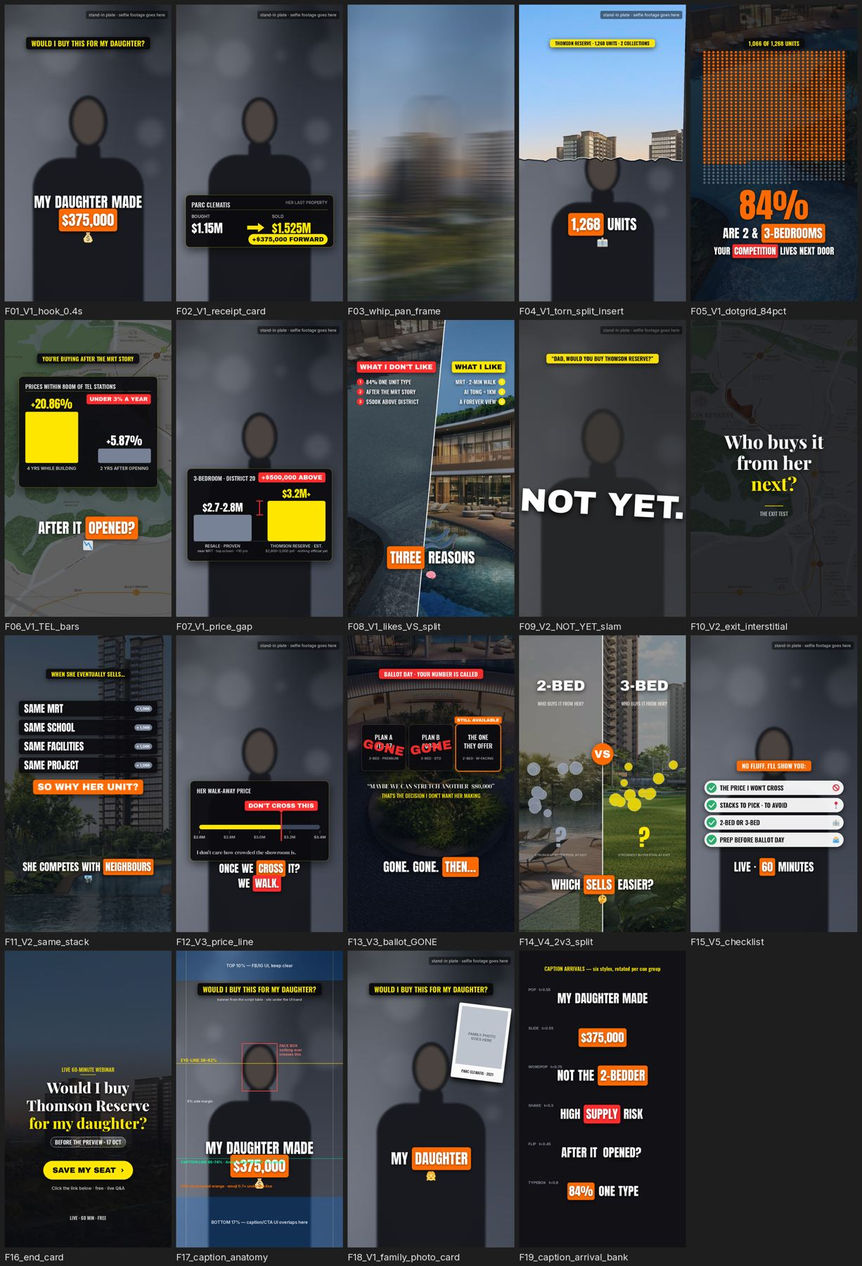
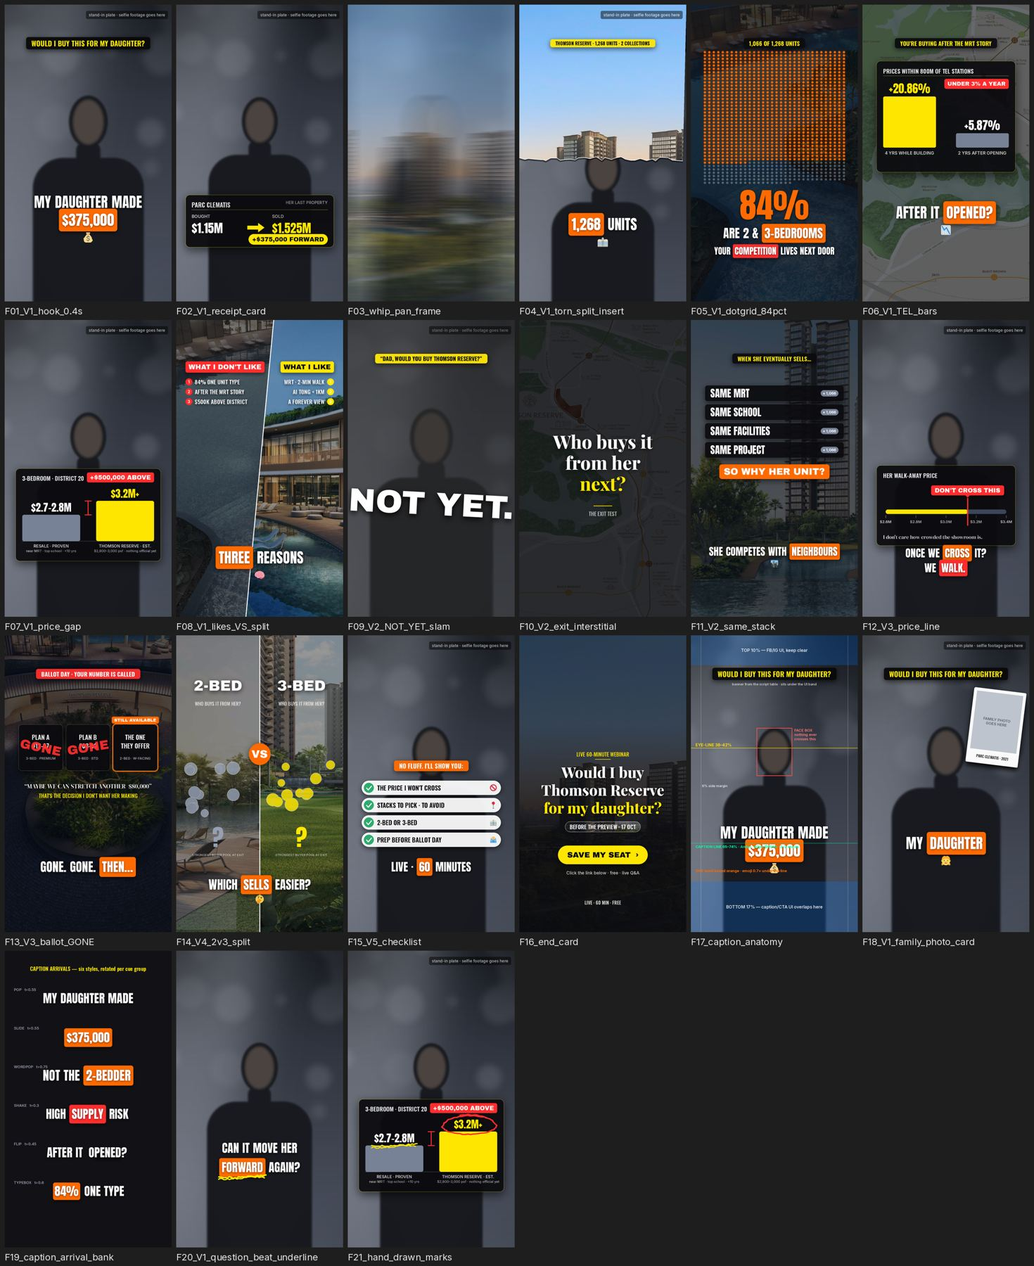
Thomson Reserve V1 selected: human-edit pass, hand-timed 14s hook, hand-drawn marks
Edmund: 'make sure this is a Meta ad editing style and not a rigid AI video -
it must be edited like a human.' Regularity is the tell, so:
- EDB v1.2: section 2b (nine human-edit rules + composer requirements:
  seeded jitter, breaths, device budget, handheld, --human-pass report),
  section 4.0 the shape of V1 with breaths and devices removed for budget
- styleframes.py: A11 = Daughter Hook 1 cut shot by shot (1.1/1.2/4.6 hold/
  1.55/1.1/1.6/2.6/0.4), handheld micro-shake, hand-drawn underline/circle
  devices, frames F20/F21
- Motion Library 6b; register marks V1 selected

Claude-Session: https://claude.ai/code/session_01QGmnhu7UTf4PAFaMEJMMnN

diff --git a/03_ACTIVE_CAMPAIGNS/01_ACTIVE/2026-08-Thomson Reserve/02_AD_EDIT_DIRECTION/styleframes/styleframes.py b/03_ACTIVE_CAMPAIGNS/01_ACTIVE/2026-08-Thomson Reserve/02_AD_EDIT_DIRECTION/styleframes/styleframes.py
@@ -792,7 +792,8 @@ def ffmpeg_bin():
         import imageio_ffmpeg; FFMPEG = imageio_ffmpeg.get_ffmpeg_exe()
     return FFMPEG
 
-def render_clip(name, fn, secs=3.0, fps=30, scale=0.5):
+def render_clip(name, fn, secs=None, fps=30, scale=0.5):
+    secs = secs or getattr(fn, "secs", 3.0)
     """fn(t01, frame_idx) -> PIL RGB 1080x1920. Writes an mp4 (h264) at scale."""
     d = OUT / "anim" / name; d.mkdir(parents=True, exist_ok=True)
     for f in d.glob("*.jpg"): f.unlink()
@@ -1004,6 +1005,128 @@ def A10(t, i):  # photo card drop-in on "my daughter"
 
 CLIPS["A9_caption_arrivals"] = A9
 CLIPS["A10_family_photo_drop"] = A10
+
+
+# ---------------------------------------------------------------- v1.2: human-edit rhythm preview + hand-drawn marks
+_PLATE = None
+def plate_z(z=1.0, dx=0, dy=0):
+    """Cached plate, re-framed per frame (fast enough for a 14s preview)."""
+    global _PLATE
+    if _PLATE is None:
+        _PLATE = plate(1, zoom=1.0)
+    return zoom_img(_PLATE, z, dx, dy)
+
+def handheld(t, amp=2.0, seed=0.0):
+    """1-2 px micro-shake at 2-4 Hz, two incommensurate sines so it never loops visibly."""
+    return (int(round(amp * (math.sin(2 * math.pi * 2.3 * t + seed) + 0.5 * math.sin(2 * math.pi * 3.7 * t + 1.3 + seed)))),
+            int(round(amp * (math.cos(2 * math.pi * 1.9 * t + 0.7 + seed) + 0.5 * math.sin(2 * math.pi * 4.1 * t + seed)))))
+
+def scribble_underline(layer, x0, x1, y, t=1.0, color=GOLD, width=10, seed=5):
+    """Hand-drawn underline: two slightly different strokes, drawn left->right over t."""
+    rnd = random.Random(seed)
+    d = ImageDraw.Draw(layer)
+    for k, (dy, w) in enumerate(((0, width), (10, int(width * 0.8)))):
+        pts = []
+        n = 26
+        for i in range(n + 1):
+            f = i / n
+            x = x0 + (x1 - x0) * f
+            yy = y + dy + rnd.uniform(-5, 5) + 6 * math.sin(f * math.pi * 1.5 + k)
+            pts.append((x, yy))
+        m = max(2, int(len(pts) * min(1, max(0, t * 1.15 - 0.15 * k))))
+        d.line(pts[:m], fill=color + (255,), width=w, joint="curve")
+
+def hand_circle(layer, box, t=1.0, color=RED, width=9, seed=9):
+    """Rough circle around a region: 1.15 turns, wobbly radius, drawn progressively."""
+    rnd = random.Random(seed)
+    x0, y0, x1, y1 = box
+    cx, cy = (x0 + x1) / 2, (y0 + y1) / 2
+    rx, ry = (x1 - x0) / 2 + 26, (y1 - y0) / 2 + 22
+    pts = []
+    n = 70
+    for i in range(n + 1):
+        a = -math.pi * 0.6 + i / n * math.pi * 2.3
+        wob = 1 + rnd.uniform(-0.035, 0.035) + 0.03 * math.sin(a * 3)
+        pts.append((cx + rx * wob * math.cos(a) + (i / n) * 14, cy + ry * wob * math.sin(a) + (i / n) * 8))
+    m = max(2, int(len(pts) * min(1, max(0, t))))
+    ImageDraw.Draw(layer).line(pts[:m], fill=color + (255,), width=width, joint="curve")
+
+def cue(layer, t_now, t0, style, words, ai, emo=None, dur=0.27, **kw):
+    if t_now >= t0:
+        caption_anim(layer, words, ai, style, min(1, (t_now - t0) / dur), emo=emo, **kw)
+
+def A11(t, i):
+    """V1 hook as a HUMAN would cut it - 14.3s, varied shot lengths, breaths, a
+    long hold on the proof card, one whip, one punch, hand-drawn underline.
+    Captions time to Daughter Hook 1 at ~2.6 words/s."""
+    T = t * 14.3
+    hx, hy = handheld(T)
+    layer = new_layer()
+    # --- picture
+    if T < 1.10:                                   # S1 raw open, flash in
+        base = plate_z(1.00, hx, hy); base = flash(base, max(0, 0.6 - T * 6))
+    elif T < 2.30:                                 # S2 jump cut, tighter
+        base = plate_z(1.10, hx, hy)
+    elif T < 6.90:                                 # S3 back out, long hold under the receipt card
+        base = plate_z(1.00 + 0.04 * (T - 2.30) / 4.6, hx, hy)
+    elif T < 7.05:                                 # whip out to the aerial
+        k = (T - 6.90) / 0.15
+        base = whip_blur(Image.blend(plate_z(1.04), broll("deck_p06", cx=2250), k), int(60 + 120 * (1 - abs(k - 0.5) * 2)))
+    elif T < 8.60:                                 # S5 aerial, slow push
+        base = broll("deck_p06", cx=2250, zoom=1.0 + 0.06 * (T - 7.05) / 1.55)
+    elif T < 9.70:                                 # S6 punch in on the face
+        k = min(1, (T - 8.60) / 0.27)
+        base = plate_z(1.08 + 0.12 * ease_out(k, 4), hx, hy)
+    elif T < 11.30:                                # S7 settle
+        base = plate_z(1.10, hx, hy)
+    elif T < 13.90:                                # S8 the question - hold, breathe
+        base = plate_z(1.00 + 0.03 * (T - 11.30) / 2.6, hx, hy)
+    else:                                          # whip-out to white = detachable hook end
+        k = (T - 13.90) / 0.40
+        base = flash(whip_blur(plate_z(1.03), int(40 + 160 * k)), k)
+    # --- banner (hook only, leaves at the whip)
+    if 0.20 <= T < 6.90:
+        eyebrow(layer, "WOULD I BUY THIS FOR MY DAUGHTER?", slide=ease_out(min(1, (T - 0.20) / 0.30)))
+    # --- devices
+    if 1.50 <= T < 6.90:
+        dev_photo_card(layer, min(1, (T - 1.50) / 0.40))
+    if 3.60 <= T < 6.90:
+        dev_receipt(layer, min(1, (T - 3.60) / 2.9))
+    # --- captions (none while the receipt card owns the frame)
+    if T < 1.10:   cue(layer, T, 0.15, "wordpop", ["MY", "DAUGHTER"], 1, emo="1f467")
+    elif T < 2.30: cue(layer, T, 1.12, "pop", ["ALREADY", "BENEFITED"], 1)
+    elif T < 3.60: cue(layer, T, 2.32, "slide", ["FROM", "PARC", "CLEMATIS"], 2)
+    elif T < 6.90: pass
+    elif T < 8.60: cue(layer, T, 7.08, "pop", ["NOW", "IF", "THOMSON", "RESERVE"], 3, size=80)
+    elif T < 9.70: cue(layer, T, 8.62, "wordpop", ["IS", "HER", "NEXT", "PROPERTY"], 3, emo="1f3e0", size=80)
+    elif T < 11.30: cue(layer, T, 9.75, "slide", ["I'M", "ASKING", "ONE", "THING"], 3, size=80)
+    elif T < 13.60:
+        cue(layer, T, 11.40, "typebox", ["CAN", "IT", "MOVE", "HER"], None, size=76, y_frac=0.665)
+        cue(layer, T, 12.25, "wordpop", ["FORWARD", "AGAIN?"], 0, size=76, y_frac=0.73)
+        if T >= 12.70:
+            f = ANTON(76); tw = text_w(f, "FORWARD") + int(76 * 0.44)
+            x0 = (W - (tw + text_w(f, "AGAIN?") + int(76 * 0.28))) // 2
+            scribble_underline(layer, x0 - 6, x0 + tw + 6, int(H * 0.73) + 60, min(1, (T - 12.70) / 0.35), color=GOLD)
+    # 13.60-13.90: face alone, no caption - the breath before the whip
+    return compose(base, layer)
+
+def F20():  # the question beat with the hand-drawn underline, at T=13.2
+    return A11(13.2 / 14.3, 0)
+
+def F21():  # hand-drawn marks bank over the price-gap card: circle + underline
+    base = plate_z(1.0)
+    layer = new_layer(); stand_in_tag(layer)
+    dev_pricegap(layer, 1.0, y_top=0.50)
+    # circle the TR number, underline the proven one
+    x0, x1 = 70, W - 70; y0 = int(H * 0.50); lx = x0 + 44; rx = x1 - 44; pw = int((rx - lx) * 0.44); ly1 = y0 + 470
+    hand_circle(layer, (rx - pw // 2 - 150, ly1 - 260 - 86, rx - pw // 2 + 150, ly1 - 260 - 6), 1.0, color=RED)
+    scribble_underline(layer, lx + pw // 2 - 150, lx + pw // 2 + 150, ly1 - 170 - 2, 1.0, color=GOLD, width=8)
+    return compose(base, layer)
+
+FRAMES["F20_V1_question_beat_underline"] = F20
+FRAMES["F21_hand_drawn_marks"] = F21
+A11.secs = 14.3
+CLIPS["A11_V1_hook_human_cut_14s"] = A11
 
 if __name__ == "__main__":
     which = sys.argv[1:] or ["frames"]

diff --git a/03_ACTIVE_CAMPAIGNS/01_ACTIVE/2026-08-Thomson Reserve/02_AD_EDIT_DIRECTION/EDB_TR-Daughter_Spinoff_v1.md b/03_ACTIVE_CAMPAIGNS/01_ACTIVE/2026-08-Thomson Reserve/02_AD_EDIT_DIRECTION/EDB_TR-Daughter_Spinoff_v1.md
@@ -1,11 +1,11 @@
 # EDB — Thomson Reserve × "Would I buy it for my daughter?" (NL03-B)
-Version: v1.1 · Status: DRAFT FOR APPROVAL · Date: 2026-10-04 (v1.1 same day: Edmund's four rulings applied — bold palette, Body 3 parked, no logo + royalty-free bed, animated captions; family photos and project footage added as inputs)
+Version: v1.2 · Status: **V1 SELECTED FOR RENDER** (Edmund, 2026-10-04) · Date: 2026-10-04 (v1.2: human-edit pass §2b, V1 shape §4.0, composer requirements; v1.1 same day: Edmund's four rulings applied — bold palette, Body 3 parked, no logo + royalty-free bed, animated captions; family photos and project footage added as inputs)
 Engine: Client Advisory · Campaign: Thomson Reserve webinar (preview 17 Oct) · Narrator: Daughter (NL03 variant B)
 Master: 9:16 1080×1920 · crops 4:5 and 1:1 · plus a 15s trim per shipped ad
 Source: selfie phone takes (Drive folder `1Oh1K2aw8K9mMtJDN1BQkKp3VZeSdhlLb`), script doc "Daughter New Spinoff Ads"
 Governs: `REI_Ad_Reel_Edit_Style_Bible_v1.0.md` (§4 motion locks, §7 QC) as reconciled with `E:\REMOTION\ADS_PLAYBOOK.md` (the measured norms) — where they disagree the Playbook wins, see §2.
 Companion: `00_PRODUCTION_FOUNDATIONS/REI_Ad_Motion_Library_v1.0.md` (the transition/effect vocabulary used below)
-Styleframes: `styleframes/` — 19 stills F01–F19 and 10 motion previews A1–A10, rendered 2026-10-04 and inspected frame by frame before this brief was written. Numbers in brackets like **[F05]** point at them.
+Styleframes: `styleframes/` — 21 stills F01–F21 and 11 motion previews A1–A11 (A11 is the 14s human-cut hook), rendered 2026-10-04 and inspected frame by frame before this brief was written. Numbers in brackets like **[F05]** point at them.
 
 ---
 
@@ -51,6 +51,22 @@ Styleframes: `styleframes/` — 19 stills F01–F19 and 10 motion previews A1–
 9. **Hook detachability**: every hook ends on a whip-out so any body can pick up from it.
 10. **End card** 3s, counted in duration, three styles rotate (§5.7).
 
+## 2b. The human-edit pass — "a Meta ad, edited like a human, not a rigid AI video" (Edmund, 2026-10-04)
+
+The machine tells are not the effects; they are the *regularity*. A person cutting this ad would never hit a 1.1s shot forty times in a row, never put a graphic on every line, and would hold on the face when the line is personal. These rules sit on top of §2 and win over any rate target.
+
+1. **Shape, not rate.** The ad has a density curve: hook fast and raw → proof as one long hold → three doubts at rising density (1 → 2 → 3 devices) → likes slower and warmer with longer renders → CTA on the face with nothing but the checklist → card. 40–55 cuts/min is the *average* of that curve, never its rhythm.
+2. **Shot-length jitter.** No two consecutive shots within ±15% of each other. Hook 0.7–1.6s, body 0.9–2.4s, renders 1.5–3s, device holds 2.5–3.5s. Cuts land on a breath or a consonant, never on a grid.
+3. **Breaths.** At least one per 20s: the face alone, caption off, 0.3–0.6s, right before a pivot. The bed drops out for the silence before a slam. V1 has four (§4.0).
+4. **Device budget.** Max one copy-carrying device per 6s of body; max two inserts per doubt; some lines play on the face with a caption and nothing else. If a device does not change what the viewer *understands*, it is cut.
+5. **Meta-native imperfection, not broadcast polish.** Handheld micro-shake on every selfie shot; hand-drawn underline / circle / arrow instead of a second graphic **[F20, F21]**; a family photo flicked in; a "tap-tap" double punch once; a kept laugh or look-away; captions that occasionally arrive a frame late, like someone typed them. No lens flares, no light leaks, no typewriter.
+6. **Cut on the audio.** J-cuts into inserts (hear the next line first), L-cuts out of device holds. Sound leads picture.
+7. **The zoom ladder is a guide.** Break it once per 20s (two 1.00 shots in a row after a punch) so the scale pattern never becomes visible.
+8. **One moment of nothing.** The longest speaker hold in the ad sits on the most personal line ("can it move her forward again?"), caption static, nothing animating but him **[A11, 11.3–13.9s]**.
+9. **Review loop.** Render → watch once at 1× on a phone → write five edits in plain words ("card comes in too early", "too many cuts at 0:41", "let him finish the sentence") → apply → re-render. No ad ships from a first render. The desktop `--human-pass` report (below) makes the regularity visible so the five edits are easy to find.
+
+**Composer requirements** (so `render_ad_v4` *cannot* produce a metronome): per-variation seed (`seed=`) so results are reproducible; `jitter` on every shot boundary (±0.12s, snapped to the nearest word gap); `breath` beats (`dev="breath"`, caption off, 0.3–0.6s); `device_budget` per block; `handheld` move on speaker shots; `no_device_zones` around the personal lines; `ladder_break` every ~20s; and a `--human-pass` report printing the shot-length histogram, cuts/min per 10s window, and every pair of consecutive shots that violate rule 2. Reference timings: `styleframes.py::A11` (14.3s, every shot hand-timed).
+
 ## 3. The six treatments — pick per take
 
 | # | Take | Treatment name | One-line idea | Transition family | Devices (new ones in **bold**) | Length |
@@ -68,7 +84,22 @@ Treatments are take-agnostic within reason: V2's grammar works on Hooks 3, 6, 9,
 
 Anchors are **spoken phrases**, not clock times; the composer resolves them on the tightened transcript (`find_phrase`). `lead` is seconds before the anchor word. Caption column shows the cue with the boxed word in [brackets]; "—" means a copy-carrying device owns the frame.
 
-### 4.1 Hook (Daughter Hook 1) — target 9–11s after tightening
+### 4.0 The shape of V1 (read before the tables)
+
+| Section | Spoken | Density | What a person would do |
+|---|---|---|---|
+| Hook 0–14s | Daughter Hook 1 | 8 shots, 1 device hold | raw open, photo flicked in, one long receipt hold, one whip, one punch, the question on his face. Timed shot-by-shot in **A11**: 1.1 · 1.2 · 4.6 (hold) · 1.55 · 1.1 · 1.6 · 2.6 · 0.4 whip |
+| Preview + 3 things 14–24s | B1–B4 | light | face, two captions per line, chips drop in, **breath** before "What I don't like" |
+| Doubt 1 24–38s | B5–B10 | 1 device (dot grid) + 2 inserts | B8 and B9 play on the face only — drop their inserts |
+| Doubt 2 38–55s | B11–B16 | 1 device (bars) + map | the map is the only picture for 9s; let it be |
+| Doubt 3 55–70s | B17–B22 | 1 device (price gap) | **breath** on "Third. The price." before the card; B19 face only |
+| Likes 70–95s | B23–B31 | VS split then renders at 2–3s each | slower; captions on every other line; the forever-view render runs 3s with a slow pull |
+| CTA 95–112s | C1–C8 | checklist only | no inserts; **breath** before "Click the link"; **longest hold** is on "not after" |
+| Card 112–115s | — | — | — |
+
+Breaths: before "What I don't like" (B4) · before "Third. The price." (B17) · after "a forever million dollar view" (B31) · before "Click the link below" (C8). Devices removed from v1.1 for budget: lower_ticker at B1, inserts at B8/B9/B30, stat chips at B29 (the render carries it).
+
+### 4.1 Hook (Daughter Hook 1) — as cut in A11, 14.3s
 
 | # | Anchor (he says…) | Picture | Device / move | Caption | In | SFX |
 |---|---|---|---|---|---|---|
@@ -142,7 +173,7 @@ Anchors are **spoken phrases**, not clock times; the composer resolves them on t
 **45s cutdown**: H1–H11, B1, B3–B6, B11–B16, B17, B20–B22, C7–C8, E1. Nothing new is designed for it.
 
 ### 4.5 V1 cadence check
-Hook: 11 shots in ~10s (66/min). Body: 31 shots over ~75s (25/min raw) — which is *under* the 40–55 target because the device beats hold. The composer's `cue_split` adds a cut per caption phrase inside each speaker shot, which brings the body to ~45/min. Hold shots (B6, B12–B16, B20–B22) are the only places a frame stays longer than 2s, and every one of them has something moving in it.
+Hook: 8 shots in 14.3s (34/min) with one 4.6s device hold — slower than the Playbook median *on purpose*; the hook earns attention with the photo and the numbers, not with cut rate. Body: 31 shots over ~75s (25/min raw) — which is *under* the 40–55 target because the device beats hold. The composer's `cue_split` adds a cut per caption phrase inside each speaker shot, which brings the body to ~45/min. Hold shots (B6, B12–B16, B20–B22) are the only places a frame stays longer than 2s, and every one of them has something moving in it.
 
 ## 5. V2–V6 — beat sheets
 
@@ -283,7 +314,9 @@ Deck pages are referenced by name; `styleframes/prep_assets.py` renders them fro
 | F17 | Caption anatomy: UI bands, eye-line, face box, caption line, margins | all |
 | F18 | photo_card over the hook, right column, clear of the face | V1 |
 | F19 | Caption arrival bank: six styles at mid-arrival | all |
-| A1–A10 | hook punch + caption pop · whip to aerial · receipt roll-up · dot-grid fill · bars + flash · flash + slam · VS wipe · end-card build · **caption arrivals (six styles in sequence)** · **photo drop-in** | motion timing for the composer |
+| F20 | The question beat at 13.2s: static caption, hand-drawn underline, face alone | V1 |
+| F21 | Hand-drawn marks (circle, underline) over the price-gap card | all |
+| A1–A10 | hook punch + caption pop · whip to aerial · receipt roll-up · dot-grid fill · bars + flash · flash + slam · VS wipe · end-card build · **caption arrivals (six styles in sequence)** · **photo drop-in** · **A11: the whole hook, 14.3s, hand-timed — the reference for "edited like a human"** | motion timing for the composer |
 
 ## 8. QC gate (run per ad, per aspect)
 
@@ -298,13 +331,13 @@ Deck pages are referenced by name; `styleframes/prep_assets.py` renders them fro
 - [ ] End card present, 3s, button legible at 1:1
 - [ ] Hook ends on a whip-out and plays clean against both bodies
 - [ ] The three-tell test (Motion Library §6): no repeated b-roll, no metronomic cut lengths, no caption that drifts from speech
+- [ ] Human-edit pass (§2b): `--human-pass` report shows no consecutive shots within ±15%, ≥1 breath per 20s, device budget respected; the five-edit review loop has run at least once
 
 ## 9. Decisions — rulings received 2026-10-04 and what is still open
 
-Ruled: bold palette (done, §2.6) · Body 3 parked (V3 on Body 2-short) · no logo, royalty-free bed softly · captions animated (§2.1, six arrival styles).
+Ruled: **V1 selected** · bold palette (done, §2.6) · Body 3 parked (V3 on Body 2-short) · no logo, royalty-free bed softly · captions animated (§2.1) · edited like a human (§2b, A11).
 
 Still open:
 
-1. **Assign treatments to takes.** Default: V1 on Daughter Hook 1 + Body 1 (first render), V2 on Hook 3 + Body 2. The rest wait for your pick.
-2. **Which family photos** go in (3–4 per ad), and whether any shows Parc Clematis.
-3. **Style Bible** — approve v1.1 §0 so the caption and palette rulings stop being per-brief notes.
+1. **Which family photos** go in (3–4 per ad), and whether any shows Parc Clematis.
+2. **Style Bible** — approve v1.1 §0 so the caption and palette rulings stop being per-brief notes.

diff --git a/00_AI_OPERATING_SYSTEM/05_CONTENT_MARKETING_ENGINE/00_PRODUCTION_FOUNDATIONS/REI_Ad_Motion_Library_v1.0.md b/00_AI_OPERATING_SYSTEM/05_CONTENT_MARKETING_ENGINE/00_PRODUCTION_FOUNDATIONS/REI_Ad_Motion_Library_v1.0.md
@@ -66,6 +66,8 @@ Companion: Style Bible (look, type, colour) · ADS_PLAYBOOK (measured norms) · 
 | caption typebox | box wipes open left→right revealing the word | numbers |
 | *(rule)* | arrivals rotate by cue group, never the same twice in a row; arrival ≤8 frames then the cue holds still; exits are cuts | reference: `styleframes.py::caption_anim`, preview A9 |
 | photo drop | tilted print falls in from above (−520px, ease-out⁴), lands at −7° | family-proof lines; never the same photo twice |
+| hand underline | two wobbly strokes drawn left→right over 10 frames, yellow | under the accent word on a held caption |
+| hand circle | 1.15 wobbly turns drawn over 12 frames, red | around the number that is the problem |
 | box pop | the orange box scales 0→1.0 with overshoot 1.6 over 6 frames, the word appears at 60% | the boxed word, when the cue is a number or the pivot |
 | roll-up | digits count from 0 to value over 0.6–0.9s, ease-out ³ | prices, %, counts in cards |
 | rise-in | card translates +260px→0 over 10 frames with a soft shadow | bottom-third cards |
@@ -102,6 +104,22 @@ Every arrival has a matching exit: cards drop out the way they came in (−260px
 | Perfect stabilisation on a selfie | phones shake | `handheld` on UGC shots |
 | Every number the same size and colour | nothing is important | gold in cards, orange box in captions, the pivot number gets the slam |
 | The same end card on every ad | the account looks templated | three card styles rotate |
+
+### 6b. The human-edit pass (Edmund, 2026-10-04: "edited like a human, not a rigid AI video")
+
+Regularity is the tell. Nine rules that sit above every rate target:
+
+1. **Shape, not rate** — a density curve (raw open → one long proof hold → rising density through the argument → slower, warmer reward → simple CTA). Cuts/min is the average of the curve, never its rhythm.
+2. **Shot-length jitter** — no two consecutive shots within ±15%; cuts on breaths and consonants.
+3. **Breaths** — face alone, caption off, 0.3–0.6s, at least one per 20s, before pivots.
+4. **Device budget** — one copy device per 6s; some lines get nothing but the face.
+5. **Meta-native imperfection** — handheld micro-shake, hand-drawn underline/circle/arrow, a photo flicked in, a kept laugh. Never flares, leaks or typewriter.
+6. **Cut on the audio** — J/L cuts; sound leads picture.
+7. **Break the zoom ladder** once per 20s.
+8. **One moment of nothing** — the longest hold is on the most personal line.
+9. **Review loop** — render, watch at 1× on a phone, five plain-word edits, re-render. Nothing ships from a first render.
+
+Reference cut: `2026-08-Thomson Reserve/02_AD_EDIT_DIRECTION/styleframes/styleframes.py::A11` — a 14.3s hook timed shot by shot (1.1 · 1.2 · 4.6 hold · 1.55 · 1.1 · 1.6 · 2.6 · 0.4).
 
 **The three-tell test** (ship gate): watch the final once at 1.5×. If you notice (a) a picture you have seen before in the ad, (b) a cut rhythm you could tap along to, or (c) a caption arriving before or after the word, it is not done.
 

diff --git a/03_ACTIVE_CAMPAIGNS/01_ACTIVE/2026-08-Thomson Reserve/02_AD_EDIT_DIRECTION/VARIATION_REGISTER.md b/03_ACTIVE_CAMPAIGNS/01_ACTIVE/2026-08-Thomson Reserve/02_AD_EDIT_DIRECTION/VARIATION_REGISTER.md
@@ -5,7 +5,7 @@ Axes: 1 Genre · 2 Palette · 3 Headline type · 4 Caption preset · 5 Backdrop/
 
 | # | Ad | 1 Genre | 2 Palette | 3 Headline | 4 Caption | 5 Backdrop | 6 Devices | 7 Transition family | 8 End card | Status |
 |---|---|---|---|---|---|---|---|---|---|---|
-| 1 | V1 The Receipt — Daughter Hook 1 + Body 1 | UGC selfie, full-bleed | Bold: black cards, yellow numbers, orange box; project b-roll | Punch condensed (Anton) | Boxed-word 2–3 w | Real room (selfie) + torn-split inserts | receipt_card · dot_grid · bar_pair · price_gap · vs_split | **Whip-pan-led** | A — serif question + yellow button, no logo | reserved |
+| 1 | V1 The Receipt — Daughter Hook 1 + Body 1 | UGC selfie, full-bleed | Bold: black cards, yellow numbers, orange box; project b-roll | Punch condensed (Anton) | Boxed-word 2–3 w | Real room (selfie) + torn-split inserts | receipt_card · dot_grid · bar_pair · price_gap · vs_split | **Whip-pan-led** | A — serif question + yellow button, no logo | **selected 2026-10-04 — render next (human-edit pass §2b)** |
 | 2 | V2 Not Yet — Hook 3 + Body 2 | Hard-cut punch | Bold + black interstitial | Punch (Archivo Black slam) | Punch preset, 1–2 w, 150px | Real room, darkened on slams | punch_slam · interstitial · same_stack · exit_funnel | **White-flash + zoom-punch-led** | B — black card, orange chip | reserved |
 | 3 | V3 The Line — Hook 4/14 + Body 2-short (Body 3 parked 2026-10-04) | Editorial-luxe | Bold black/yellow with red semantic | Editorial serif cards, punch captions | highlightBar (Oswald) | Real room + night-arrival render | price_line · ballot_tiles · plan_abc · blacklist | **Slide/wipe-led + speed-ramp** | C — red/black "WATCH BEFORE YOU BALLOT" | reserved |
 | 4 | V4 2 or 3? — Hook 11 + Body 2-short | Split-screen VS throughout | Bold | Punch | Boxed-word | Two renders side by side | two_three_split · buyer_pool_q · exit_funnel | **Match-cut / split-slide** | A | reserved |

diff --git a/03_ACTIVE_CAMPAIGNS/01_ACTIVE/2026-08-Thomson Reserve/02_AD_EDIT_DIRECTION/styleframes/README.md b/03_ACTIVE_CAMPAIGNS/01_ACTIVE/2026-08-Thomson Reserve/02_AD_EDIT_DIRECTION/styleframes/README.md
@@ -4,9 +4,9 @@ What is here:
 
 | File | What |
 |---|---|
-| `styleframes.py` | Renders 19 styleframes (F01–F19) and 10 motion previews (A1–A10), bold palette (black / yellow / red / orange) at 1080×1920. Every device is a function of `t∈[0,1]`, so each one ports to `E:\REMOTION\ads\devices.py` as a frame generator. |
+| `styleframes.py` | Renders 21 styleframes (F01–F21) and 11 motion previews (A1–A11; A11 is the 14.3s hand-timed hook — the reference for "edited like a human"), bold palette (black / yellow / red / orange) at 1080×1920. Every device is a function of `t∈[0,1]`, so each one ports to `E:\REMOTION\ads\devices.py` as a frame generator. |
 | `prep_assets.py` | One-time: downloads the typefaces (OFL) and Twemoji glyphs, and renders the deck/ebook pages used as b-roll from `../Raw Assets/`. |
-| `contact_sheet.jpg` | The 19 frames at thumbnail size, as inspected on 2026-10-04 (third pass: bold palette, after fixes). |
+| `contact_sheet.jpg` | The 21 frames at thumbnail size, as inspected on 2026-10-04 (third pass: bold palette, after fixes). |
 
 Not committed (bulk media, constitution §9.7): the full-res PNGs, the MP4 previews, fonts, emoji, rendered pages. Regenerate:
 
